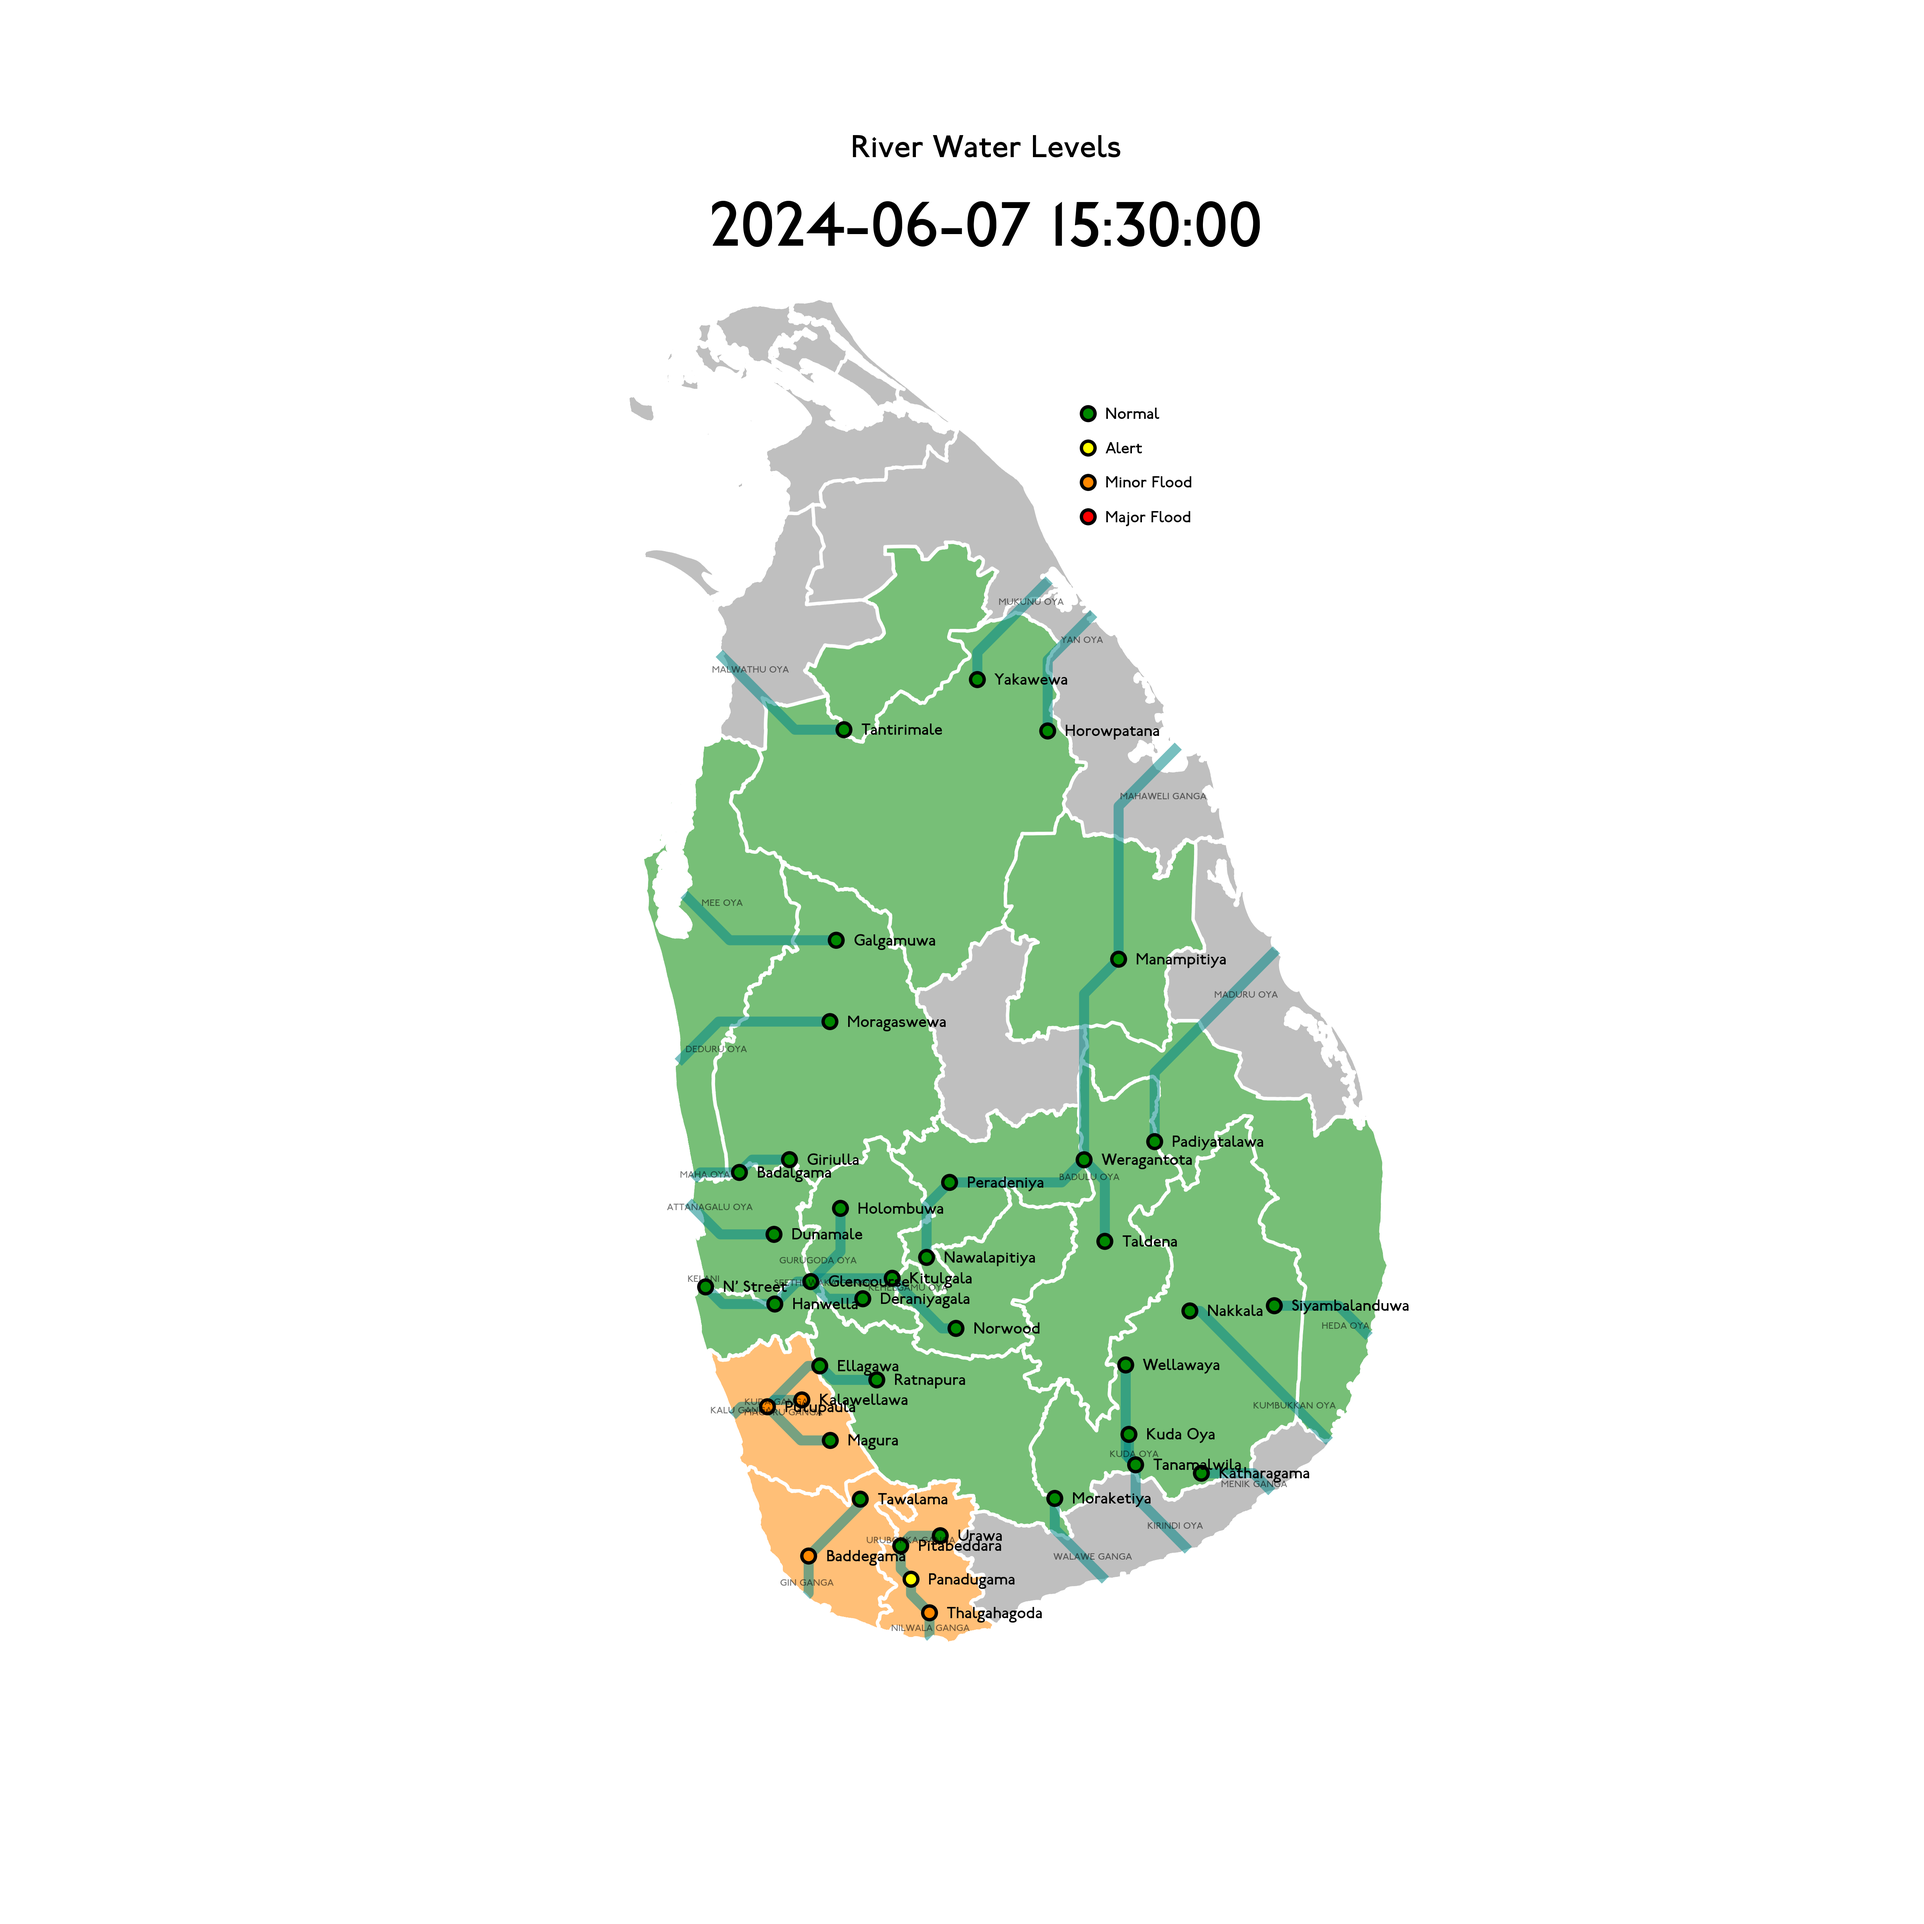
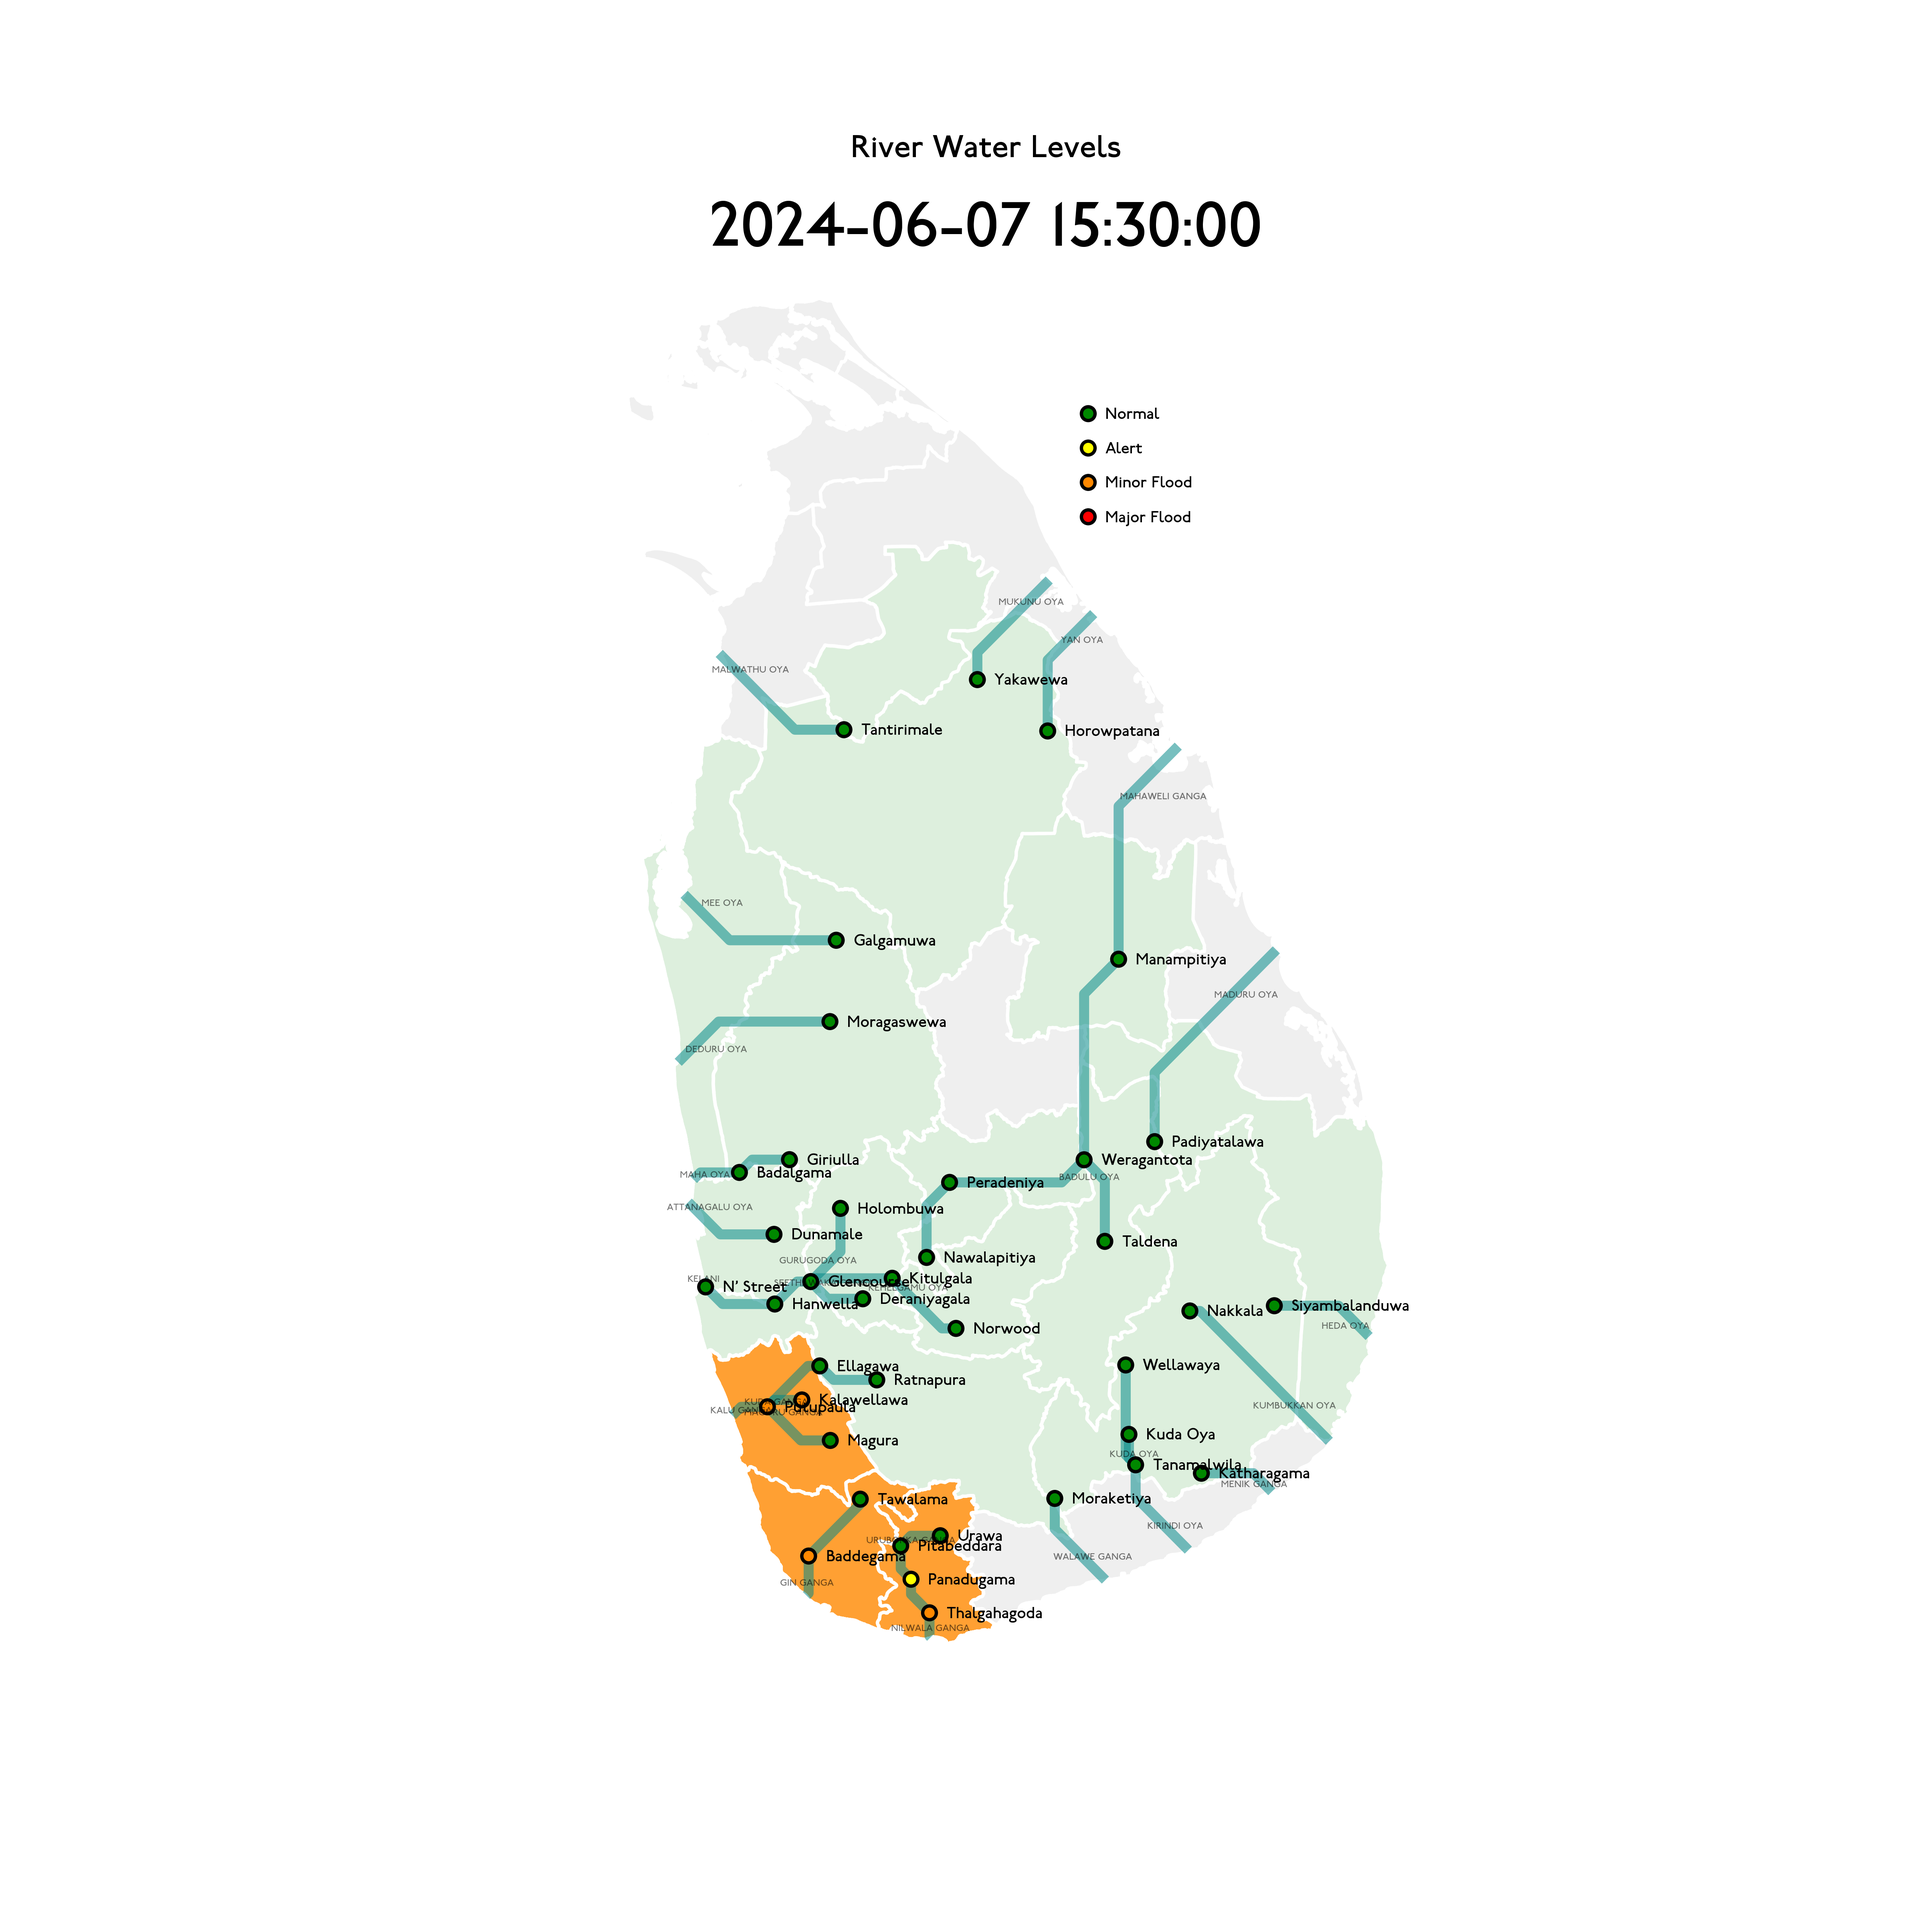
various

Changed region(s): [[0.3125, 0.1562, 0.7188, 0.875]]

diff --git a/src/dmc/reports/RiverWaterLevelMap.py b/src/dmc/reports/RiverWaterLevelMap.py
@@ -100,10 +100,13 @@ class RiverWaterLevelMap:
                 max_level = max(max_level, rwl.level)
 
             if no_stations:
-                color = '#8888'
+                color = '#8882'
             else:
                 color = ['#080', '#ff0', '#f80', '#f00'][max_level]
-                color = color + '8'
+                if max_level > 0:
+                    color = color + 'c'
+                else:
+                    color = color + '2'
 
             geo = ent.geo()
             geo.plot(ax=ax, color=color, edgecolor='#fff')
